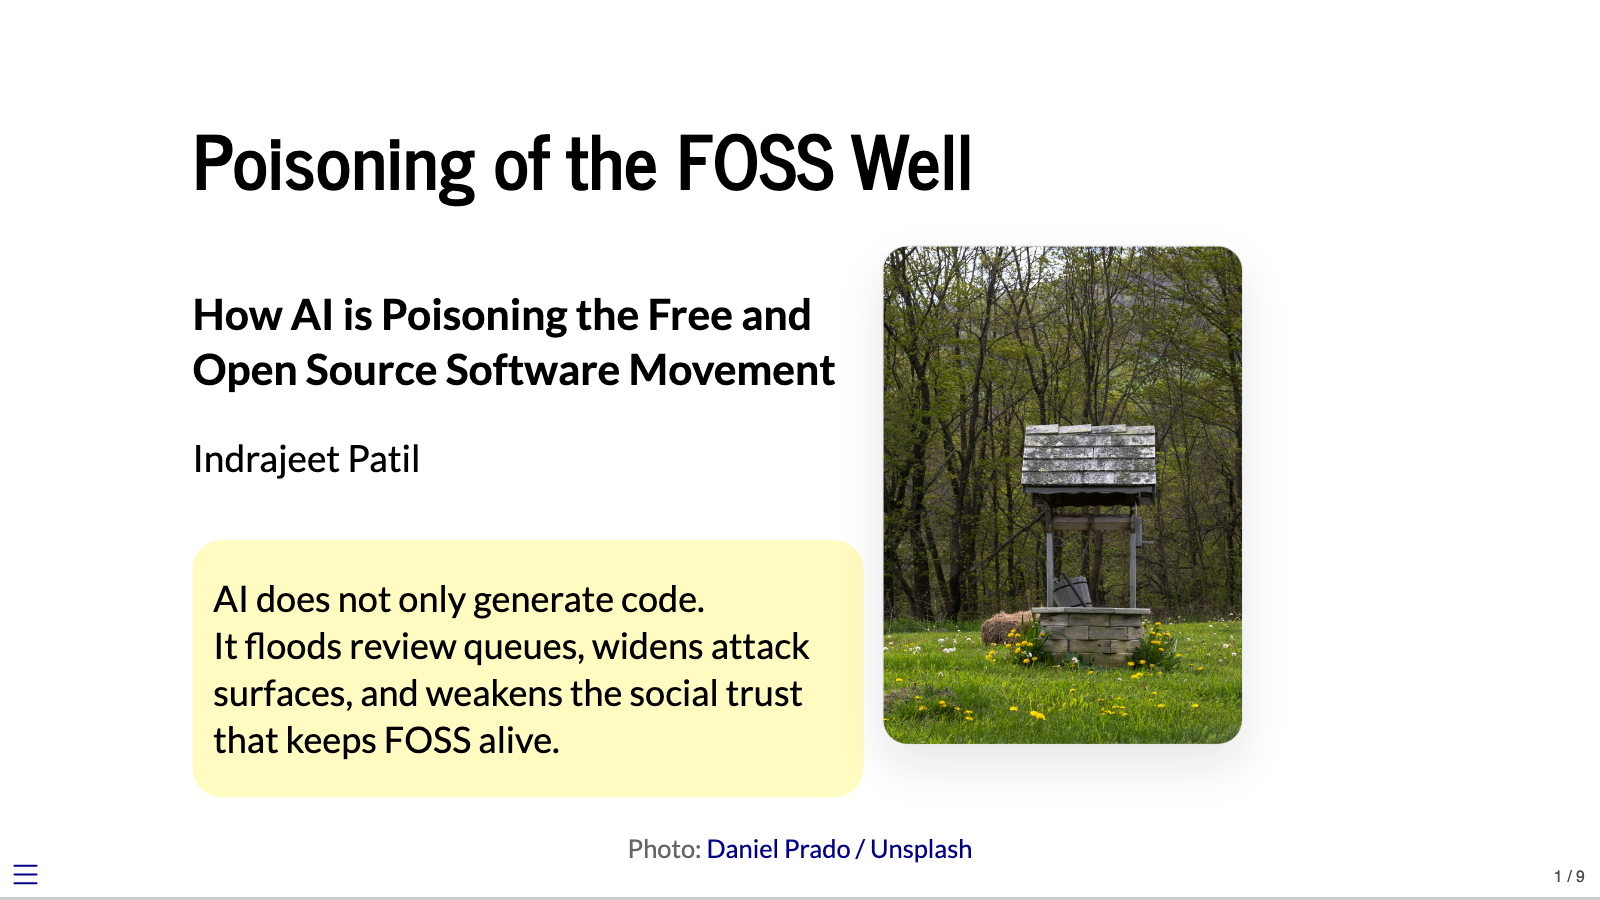
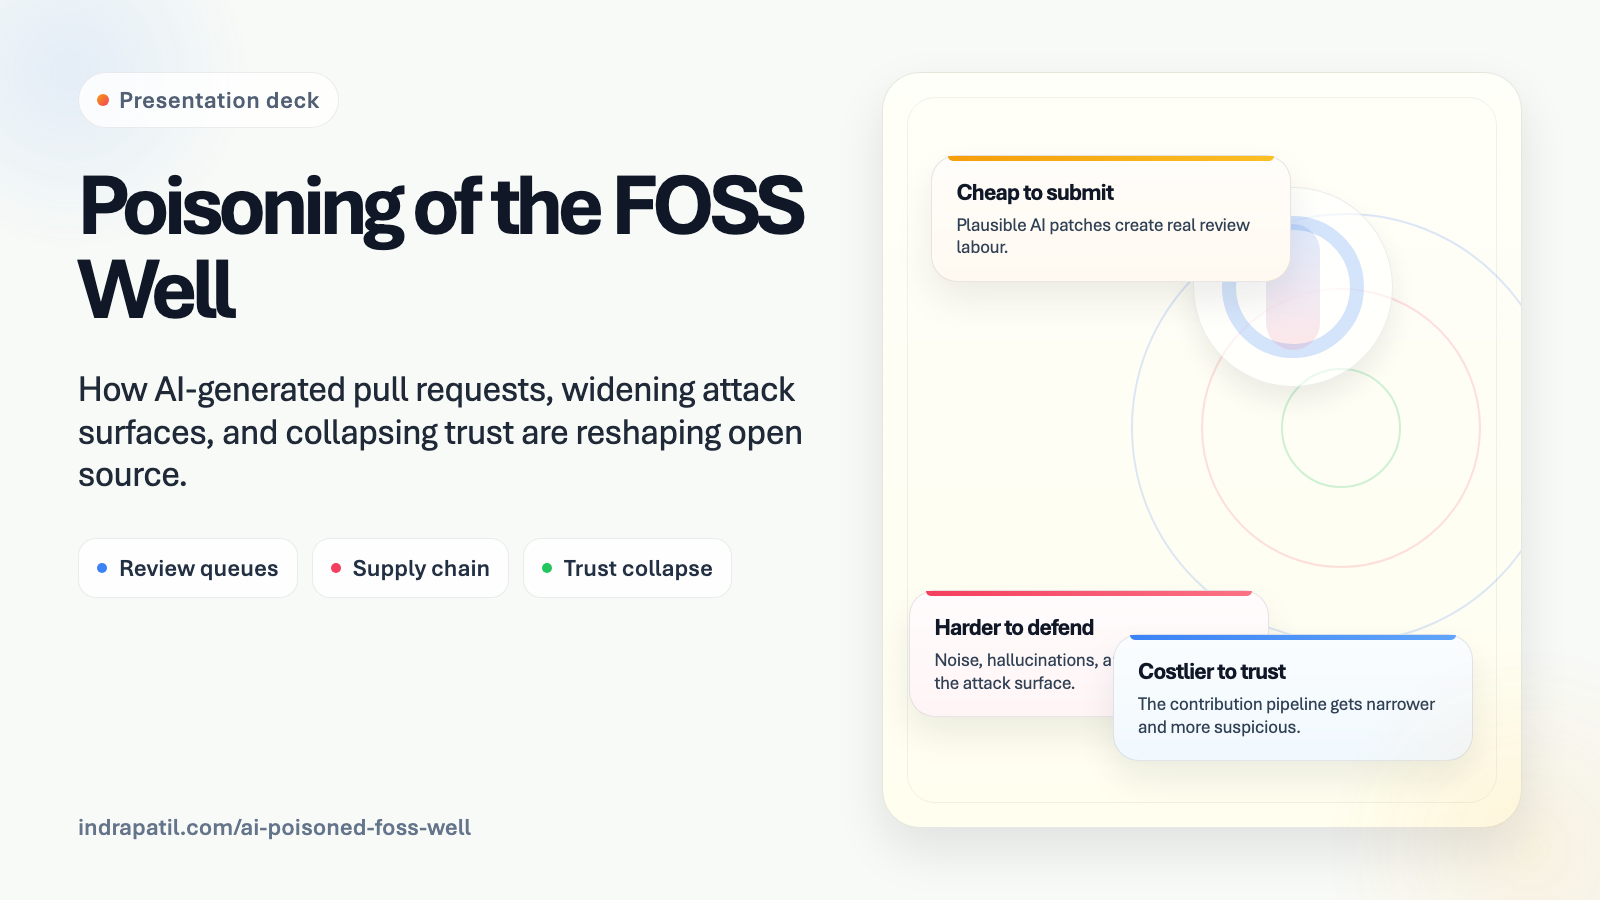
Refocus AI trust section; add social card assets
Reframes the trust-collapse section to emphasize AI's role: heading and explanatory text updated, mermaid flowchart extended with an AI PR floods node and additional gatekeeping/ pipeline nodes, and callout copy revised to reflect AI-driven suspicion. Adds the social-card-source.html artboard (source for the social-media-card) and replaces the social-media-card.png with an updated image.

diff --git a/media/social-card-source.html b/media/social-card-source.html
@@ -1,0 +1,356 @@
+<!doctype html>
+<html lang="en">
+  <head>
+    <meta charset="utf-8" />
+    <meta name="viewport" content="width=device-width, initial-scale=1" />
+    <title>Poisoning of the FOSS Well Social Card</title>
+    <style>
+      :root {
+        --bg: #f8faf7;
+        --ink: #101828;
+        --muted: #516074;
+        --line: rgba(15, 23, 42, 0.1);
+        --shadow: 0 22px 50px rgba(15, 23, 42, 0.1);
+        --blue: #e3f2fd;
+        --green: #e8f5e9;
+        --amber: #fff3e0;
+        --rose: #ffebee;
+        --yellow: #fffbc1;
+        --blue-strong: #3b82f6;
+        --green-strong: #22c55e;
+        --amber-strong: #f59e0b;
+        --rose-strong: #f43f5e;
+      }
+
+      * {
+        box-sizing: border-box;
+      }
+
+      html,
+      body {
+        margin: 0;
+        width: 1600px;
+        height: 900px;
+        overflow: hidden;
+        background: var(--bg);
+        font-family:
+          "IBM Plex Sans", "Aptos", "Segoe UI", system-ui, sans-serif;
+        color: var(--ink);
+      }
+
+      body::before,
+      body::after {
+        content: "";
+        position: absolute;
+        border-radius: 999px;
+        filter: blur(10px);
+        opacity: 0.8;
+      }
+
+      body::before {
+        width: 380px;
+        height: 380px;
+        left: -120px;
+        top: -120px;
+        background: radial-gradient(circle, rgba(59, 130, 246, 0.14), transparent 68%);
+      }
+
+      body::after {
+        width: 420px;
+        height: 420px;
+        right: -140px;
+        bottom: -160px;
+        background: radial-gradient(circle, rgba(245, 158, 11, 0.12), transparent 70%);
+      }
+
+      .frame {
+        position: relative;
+        width: 100%;
+        height: 100%;
+        padding: 72px 78px;
+      }
+
+      .grid {
+        display: grid;
+        grid-template-columns: 0.98fr 0.82fr;
+        gap: 40px;
+        align-items: stretch;
+        height: 100%;
+      }
+
+      .eyebrow {
+        display: inline-flex;
+        align-items: center;
+        gap: 10px;
+        padding: 12px 18px;
+        border-radius: 999px;
+        background: rgba(255, 255, 255, 0.8);
+        border: 1px solid rgba(15, 23, 42, 0.08);
+        color: var(--muted);
+        font-size: 24px;
+        font-weight: 600;
+        letter-spacing: 0.02em;
+      }
+
+      .eyebrow::before {
+        content: "";
+        width: 12px;
+        height: 12px;
+        border-radius: 999px;
+        background: linear-gradient(135deg, var(--amber-strong), var(--rose-strong));
+      }
+
+      .title {
+        margin: 36px 0 24px;
+        font-family: "Space Grotesk", "Aptos Display", "Segoe UI", sans-serif;
+        font-size: 88px;
+        line-height: 0.95;
+        letter-spacing: -0.05em;
+        font-weight: 700;
+        max-width: 760px;
+      }
+
+      .subtitle {
+        max-width: 760px;
+        font-size: 37px;
+        line-height: 1.15;
+        color: #1f2937;
+      }
+
+      .chips {
+        display: flex;
+        flex-wrap: wrap;
+        gap: 14px;
+        margin-top: 42px;
+      }
+
+      .chip {
+        display: inline-flex;
+        align-items: center;
+        gap: 12px;
+        padding: 14px 18px;
+        border-radius: 18px;
+        background: rgba(255, 255, 255, 0.75);
+        border: 1px solid rgba(15, 23, 42, 0.08);
+        font-size: 24px;
+        font-weight: 600;
+        color: #233044;
+      }
+
+      .chip::before {
+        content: "";
+        width: 10px;
+        height: 10px;
+        border-radius: 999px;
+      }
+
+      .chip.blue::before {
+        background: var(--blue-strong);
+      }
+
+      .chip.rose::before {
+        background: var(--rose-strong);
+      }
+
+      .chip.green::before {
+        background: var(--green-strong);
+      }
+
+      .site {
+        position: absolute;
+        left: 78px;
+        bottom: 58px;
+        color: #64748b;
+        font-size: 24px;
+        font-weight: 600;
+      }
+
+      .artboard {
+        position: relative;
+        min-height: 100%;
+        border-radius: 38px;
+        background:
+          linear-gradient(180deg, rgba(255, 255, 255, 0.9), rgba(255, 255, 255, 0.74)),
+          var(--yellow);
+        border: 1px solid var(--line);
+        box-shadow: var(--shadow);
+        overflow: hidden;
+      }
+
+      .artboard::before {
+        content: "";
+        position: absolute;
+        inset: 24px;
+        border-radius: 28px;
+        border: 1px solid rgba(15, 23, 42, 0.06);
+      }
+
+      .ring {
+        position: absolute;
+        border-radius: 999px;
+        border: 2px solid rgba(59, 130, 246, 0.18);
+      }
+
+      .ring.one {
+        width: 430px;
+        height: 430px;
+        right: -40px;
+        top: 140px;
+      }
+
+      .ring.two {
+        width: 280px;
+        height: 280px;
+        right: 40px;
+        top: 215px;
+        border-color: rgba(244, 63, 94, 0.16);
+      }
+
+      .ring.three {
+        width: 120px;
+        height: 120px;
+        right: 120px;
+        top: 295px;
+        border-color: rgba(34, 197, 94, 0.22);
+      }
+
+      .stack-card {
+        position: absolute;
+        width: 360px;
+        padding: 24px 24px 22px;
+        border-radius: 26px;
+        border: 1px solid rgba(15, 23, 42, 0.1);
+        box-shadow: 0 18px 36px rgba(15, 23, 42, 0.08);
+      }
+
+      .stack-card::before {
+        content: "";
+        position: absolute;
+        left: 16px;
+        right: 16px;
+        top: 0;
+        height: 5px;
+        border-radius: 0 0 999px 999px;
+      }
+
+      .stack-card h3 {
+        margin: 0 0 10px;
+        font-family: "Space Grotesk", "Aptos Display", sans-serif;
+        font-size: 24px;
+        line-height: 1;
+        letter-spacing: -0.03em;
+      }
+
+      .stack-card p {
+        margin: 0;
+        font-size: 19px;
+        line-height: 1.18;
+        color: #314155;
+      }
+
+      .card-1 {
+        left: 48px;
+        top: 82px;
+        background: linear-gradient(180deg, rgba(255, 255, 255, 0.86), rgba(255, 255, 255, 0.52)), var(--amber);
+      }
+
+      .card-1::before {
+        background: linear-gradient(90deg, var(--amber-strong), #fbbf24);
+      }
+
+      .card-2 {
+        left: 26px;
+        bottom: 110px;
+        background: linear-gradient(180deg, rgba(255, 255, 255, 0.84), rgba(255, 255, 255, 0.48)), var(--rose);
+      }
+
+      .card-2::before {
+        background: linear-gradient(90deg, var(--rose-strong), #fb7185);
+      }
+
+      .card-3 {
+        right: 48px;
+        bottom: 66px;
+        background: linear-gradient(180deg, rgba(255, 255, 255, 0.84), rgba(255, 255, 255, 0.5)), var(--blue);
+      }
+
+      .card-3::before {
+        background: linear-gradient(90deg, var(--blue-strong), #60a5fa);
+      }
+
+      .well {
+        position: absolute;
+        right: 128px;
+        top: 114px;
+        width: 200px;
+        height: 200px;
+        border-radius: 999px;
+        background: radial-gradient(circle at 50% 46%, rgba(255, 255, 255, 0.95), rgba(255, 255, 255, 0.4));
+        border: 1px solid rgba(15, 23, 42, 0.08);
+        box-shadow: 0 14px 26px rgba(15, 23, 42, 0.08);
+      }
+
+      .well::before {
+        content: "";
+        position: absolute;
+        inset: 28px;
+        border-radius: 999px;
+        border: 14px solid rgba(59, 130, 246, 0.22);
+      }
+
+      .well::after {
+        content: "";
+        position: absolute;
+        left: 72px;
+        right: 72px;
+        top: 36px;
+        bottom: 36px;
+        border-radius: 999px;
+        background: linear-gradient(180deg, rgba(59, 130, 246, 0.16), rgba(244, 63, 94, 0.12));
+      }
+    </style>
+  </head>
+  <body>
+    <main class="frame">
+      <div class="grid">
+        <section>
+          <div class="eyebrow">Presentation deck</div>
+          <h1 class="title">Poisoning of the FOSS Well</h1>
+          <p class="subtitle">
+            How AI-generated pull requests, widening attack surfaces, and collapsing
+            trust are reshaping open source.
+          </p>
+          <div class="chips">
+            <div class="chip blue">Review queues</div>
+            <div class="chip rose">Supply chain</div>
+            <div class="chip green">Trust collapse</div>
+          </div>
+        </section>
+
+        <section class="artboard" aria-hidden="true">
+          <div class="ring one"></div>
+          <div class="ring two"></div>
+          <div class="ring three"></div>
+          <div class="well"></div>
+
+          <article class="stack-card card-1">
+            <h3>Cheap to submit</h3>
+            <p>Plausible AI patches create real review labour.</p>
+          </article>
+
+          <article class="stack-card card-2">
+            <h3>Harder to defend</h3>
+            <p>Noise, hallucinations, and speed widen the attack surface.</p>
+          </article>
+
+          <article class="stack-card card-3">
+            <h3>Costlier to trust</h3>
+            <p>The contribution pipeline gets narrower and more suspicious.</p>
+          </article>
+        </section>
+      </div>
+
+      <div class="site">indrapatil.com/ai-poisoned-foss-well</div>
+    </main>
+  </body>
+</html>
